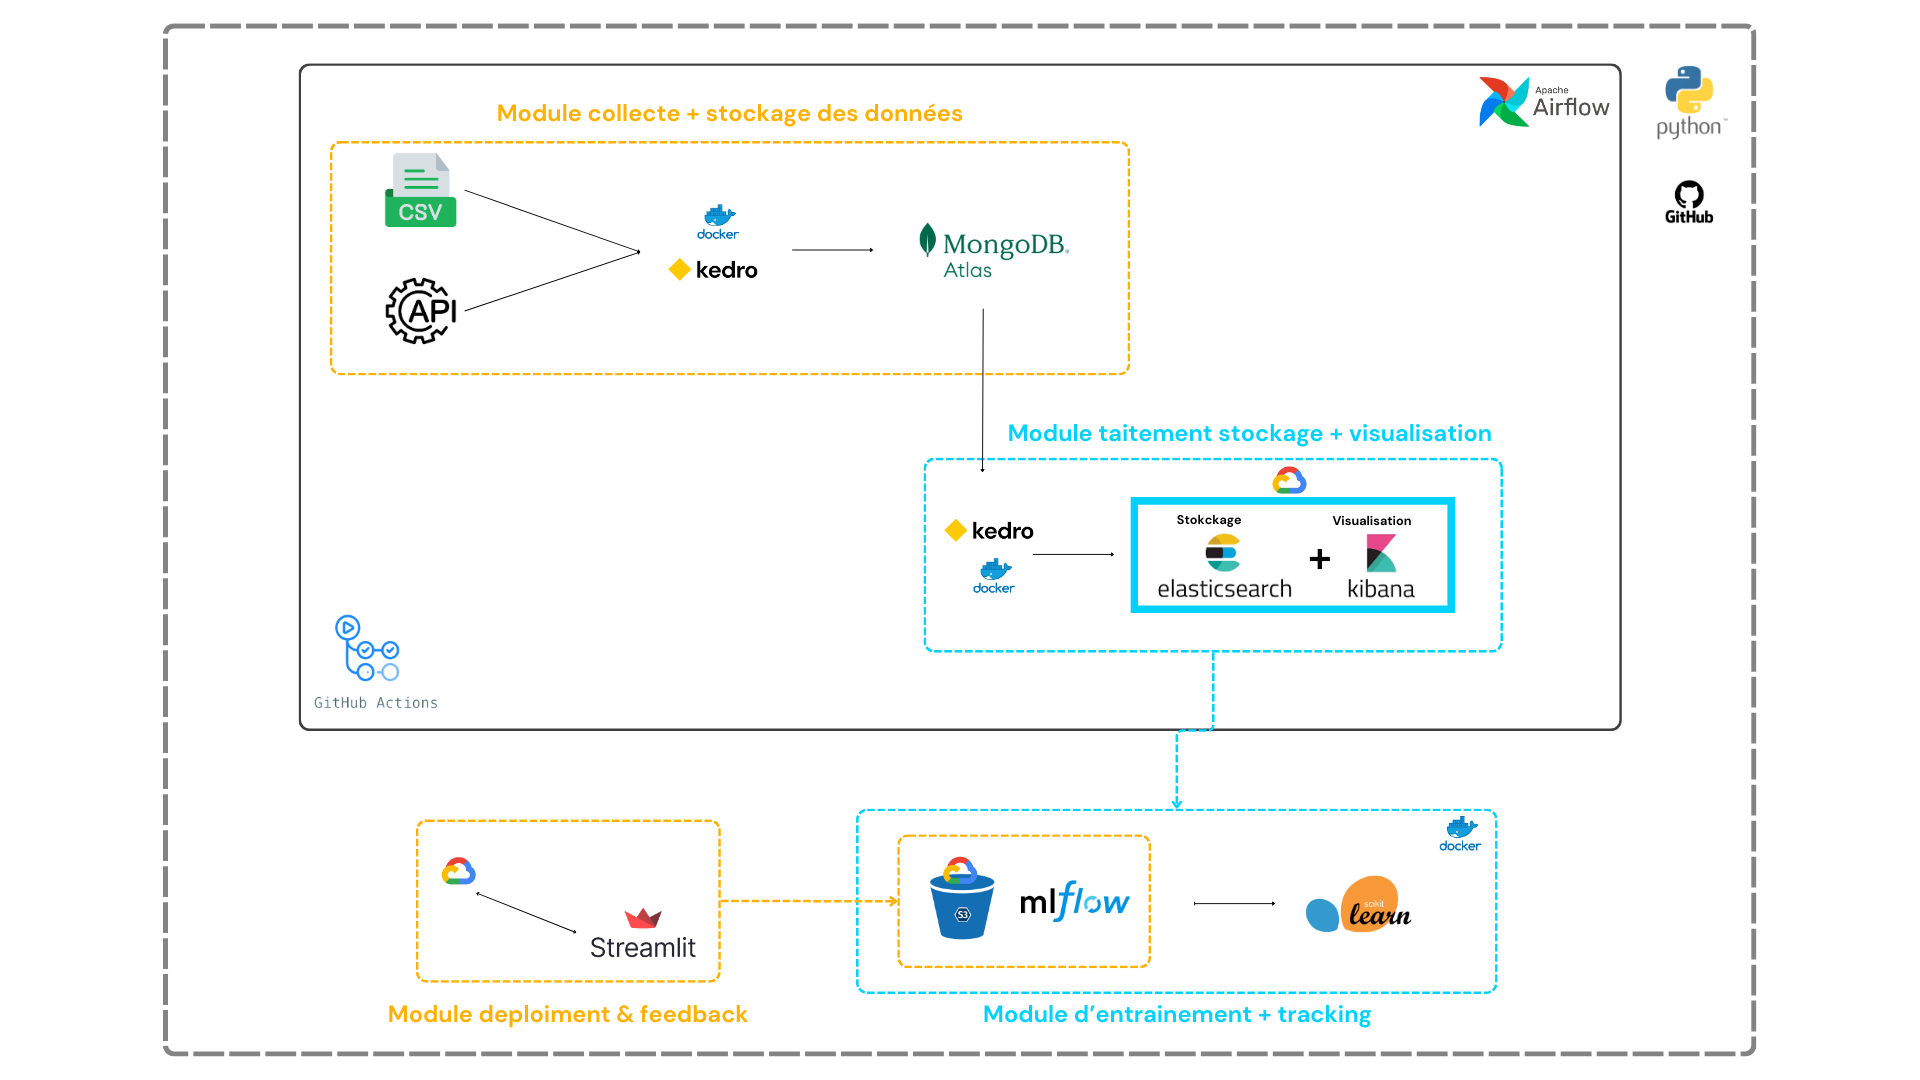
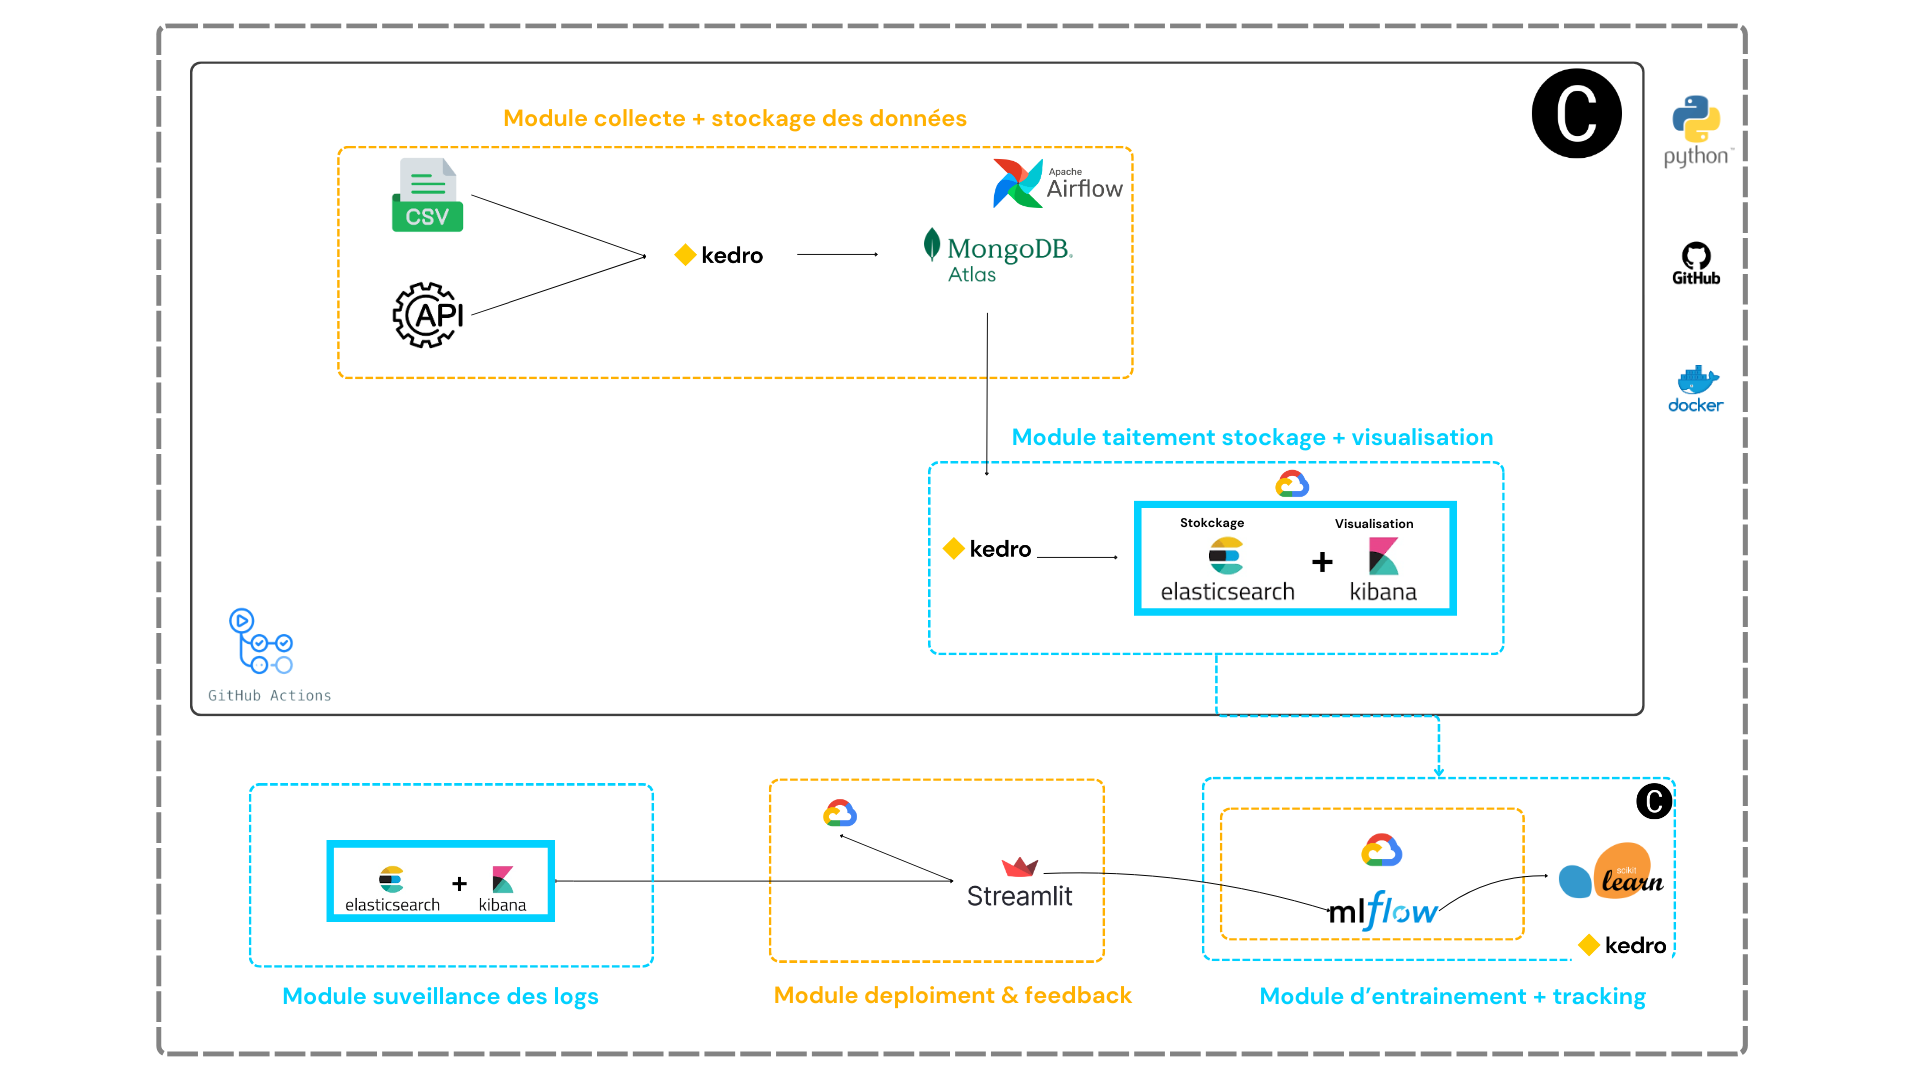
Insertion capture écran monitoring

diff --git a/data-collection-kedro/src/data_collection_kedro/pipeline_registry.py b/data-collection-kedro/src/data_collection_kedro/pipeline_registry.py
@@ -3,8 +3,7 @@ from data_collection_kedro.pipelines.data_fusion_pipeline import create_pipeline
 from data_collection_kedro.pipelines.etl_pipeline import create_pipeline as create_etl_pipeline
 
 def register_pipelines() -> dict[str, Pipeline]:
-    """
-    Register the project's pipelines.
+    """Register the project's pipelines.
     Returns:
         A mapping from a pipeline name to a ``Pipeline`` object.
     """
@@ -12,8 +11,7 @@ def register_pipelines() -> dict[str, Pipeline]:
     etl_pipeline = create_etl_pipeline()
 
     return {
-        "data-fusion-pipeline": data_fusion_pipeline,
+        "data_fusion_pipeline": data_fusion_pipeline,
         "etl_pipeline": etl_pipeline,
         "__default__": etl_pipeline + data_fusion_pipeline,
     }
-

diff --git a/data-collection-kedro/src/data_collection_kedro/pipelines/data_fusion_pipeline/nodes.py b/data-collection-kedro/src/data_collection_kedro/pipelines/data_fusion_pipeline/nodes.py
@@ -183,6 +183,7 @@ def store_in_elasticsearch(df, es, index_name, chunk_size=500):
             ]
             # Utiliser helpers.bulk pour insérer les données en bloc
             helpers.bulk(es, actions)
+            print(f"Chunk {chunk} inséré avec succès dans Elasticsearch.")
 
         print(f"Données insérées avec succès dans l'index Elasticsearch : {index_name}")
 

diff --git a/data-collection-kedro/src/data_collection_kedro/pipelines/etl_pipeline/pipeline.py b/data-collection-kedro/src/data_collection_kedro/pipelines/etl_pipeline/pipeline.py
@@ -5,7 +5,6 @@ from kedro.pipeline import Pipeline, node
 
 from .nodes import etl_api_data, etl_csv_data
 
-
 def create_pipeline(**kwargs) -> Pipeline:
     """
     Create a Kedro pipeline for the ETL process with multiple API sources.

diff --git a/data-collection-kedro/src/data_collection_kedro/pipelines/data_fusion_pipeline/pipeline.py b/data-collection-kedro/src/data_collection_kedro/pipelines/data_fusion_pipeline/pipeline.py
@@ -9,7 +9,6 @@ from .nodes import (
     select_columns,
 )
 
-
 def create_pipeline(**kwargs) -> Pipeline:
     return Pipeline(
         [
